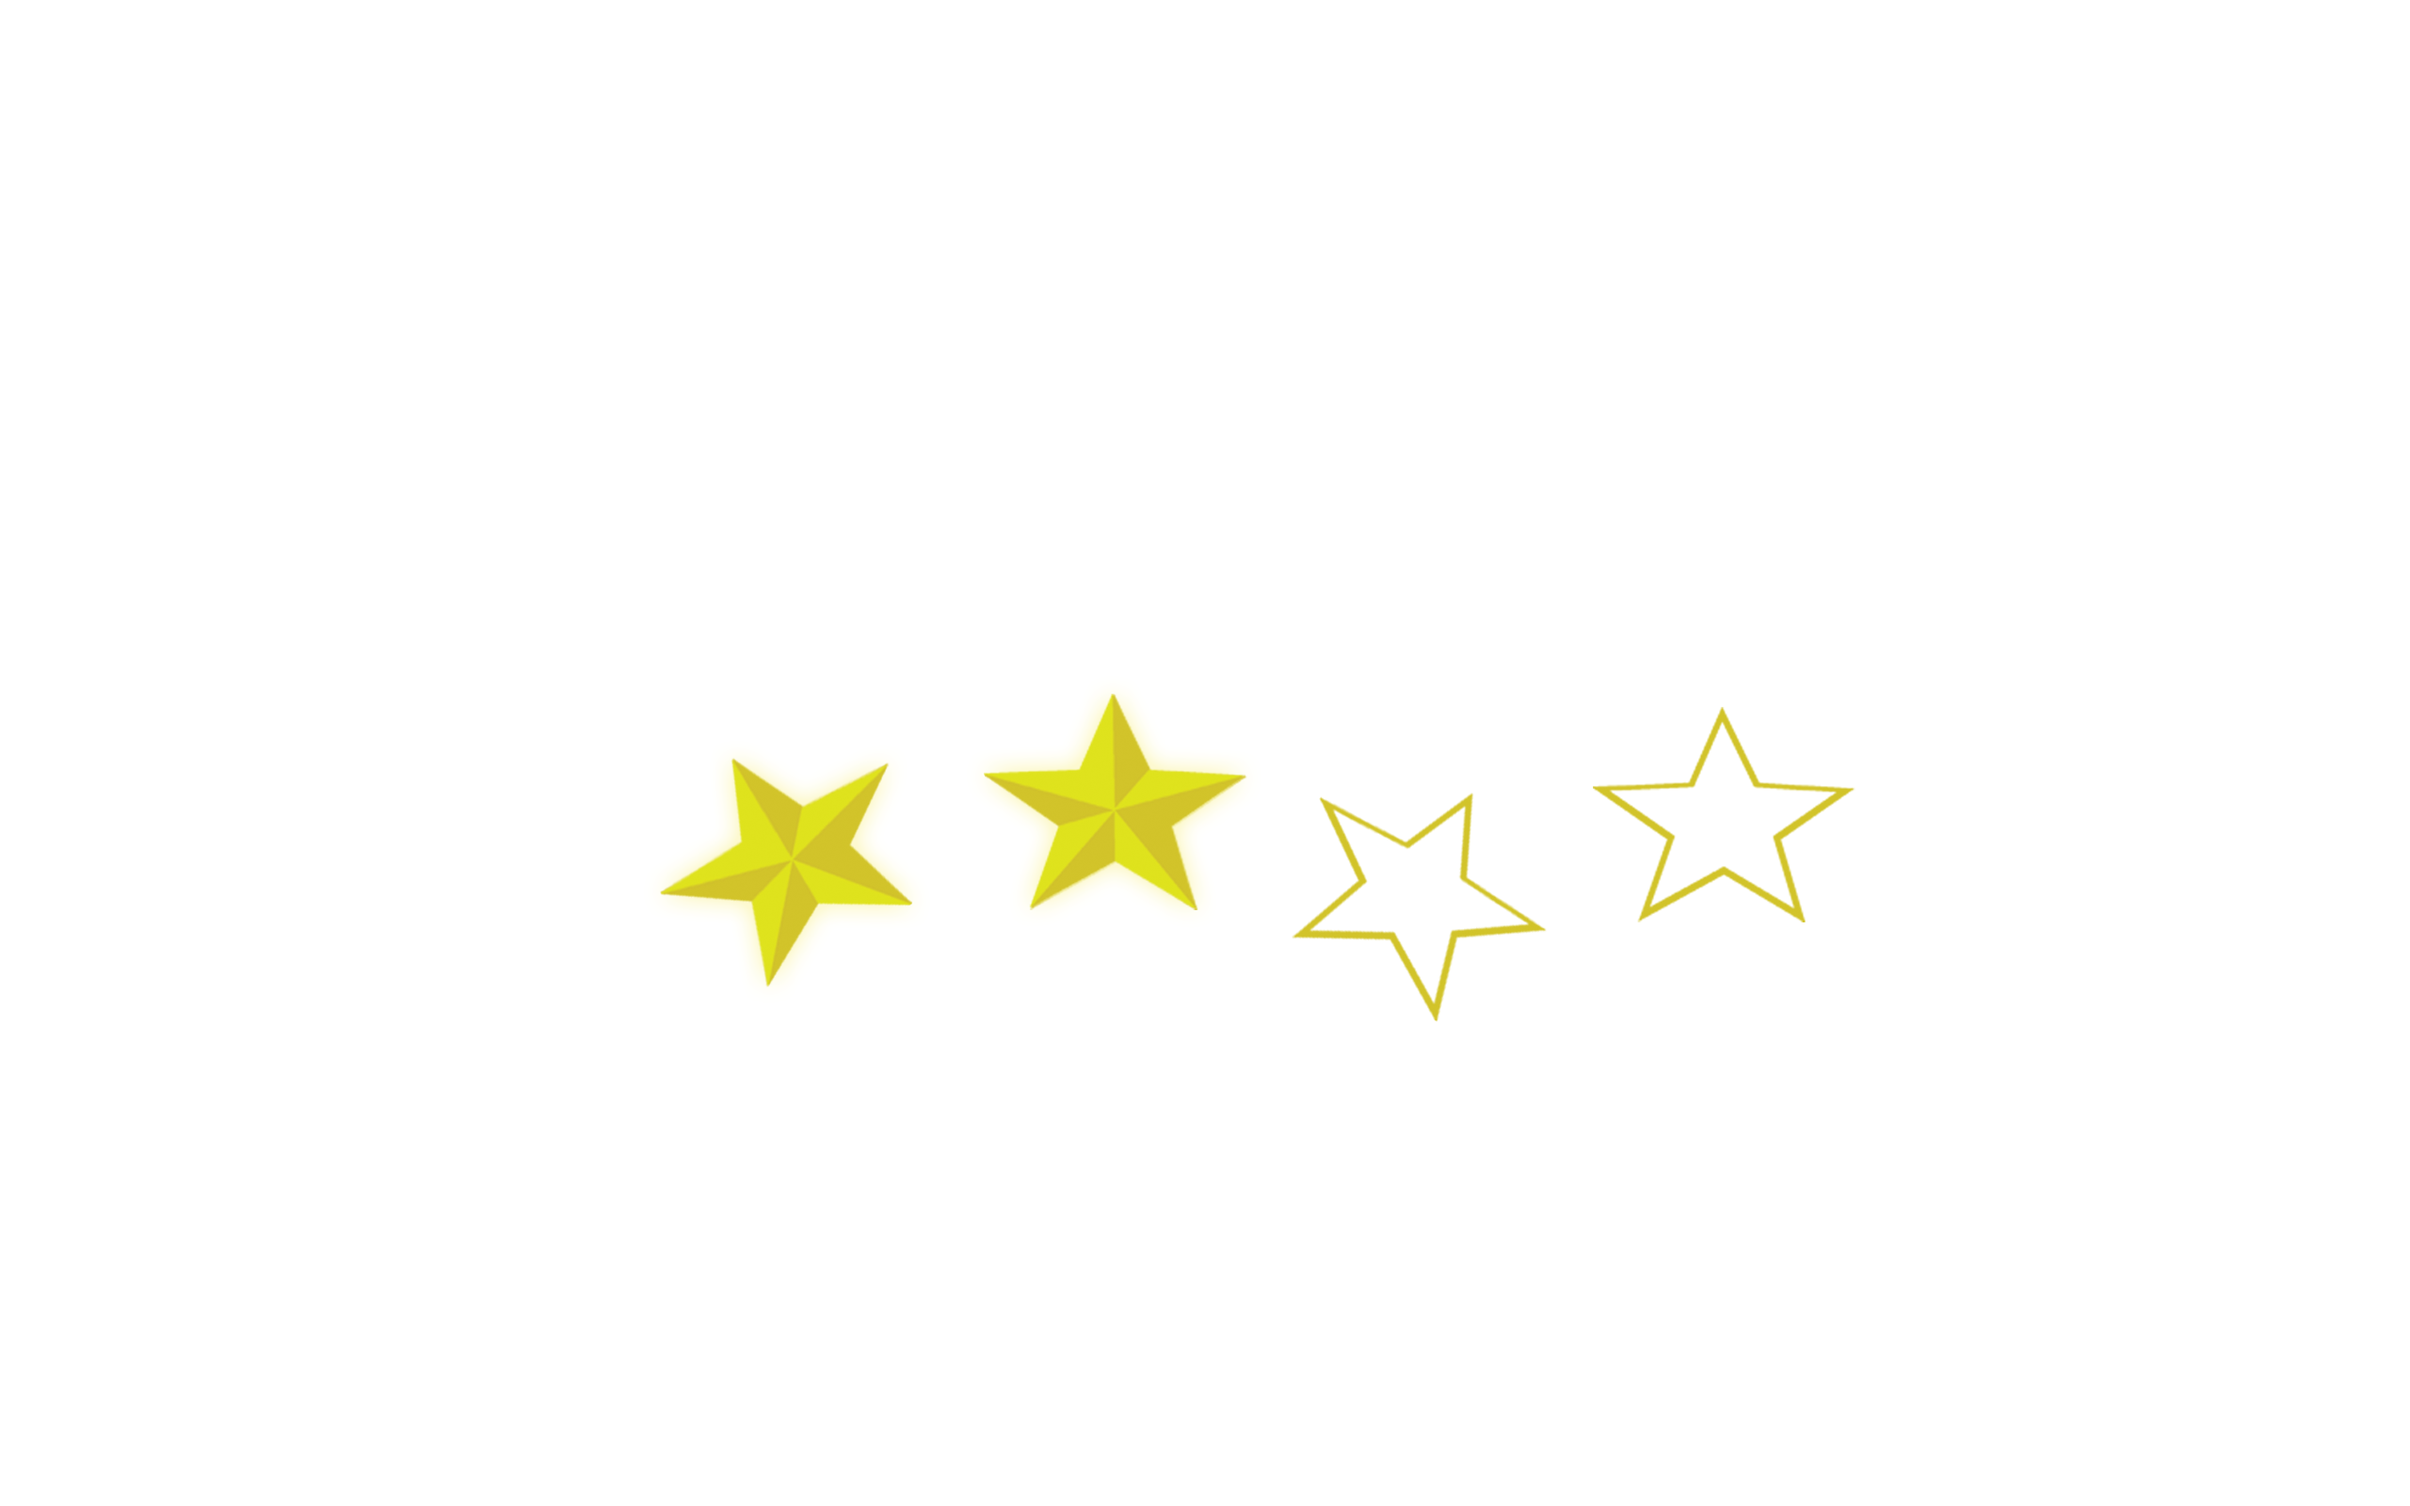
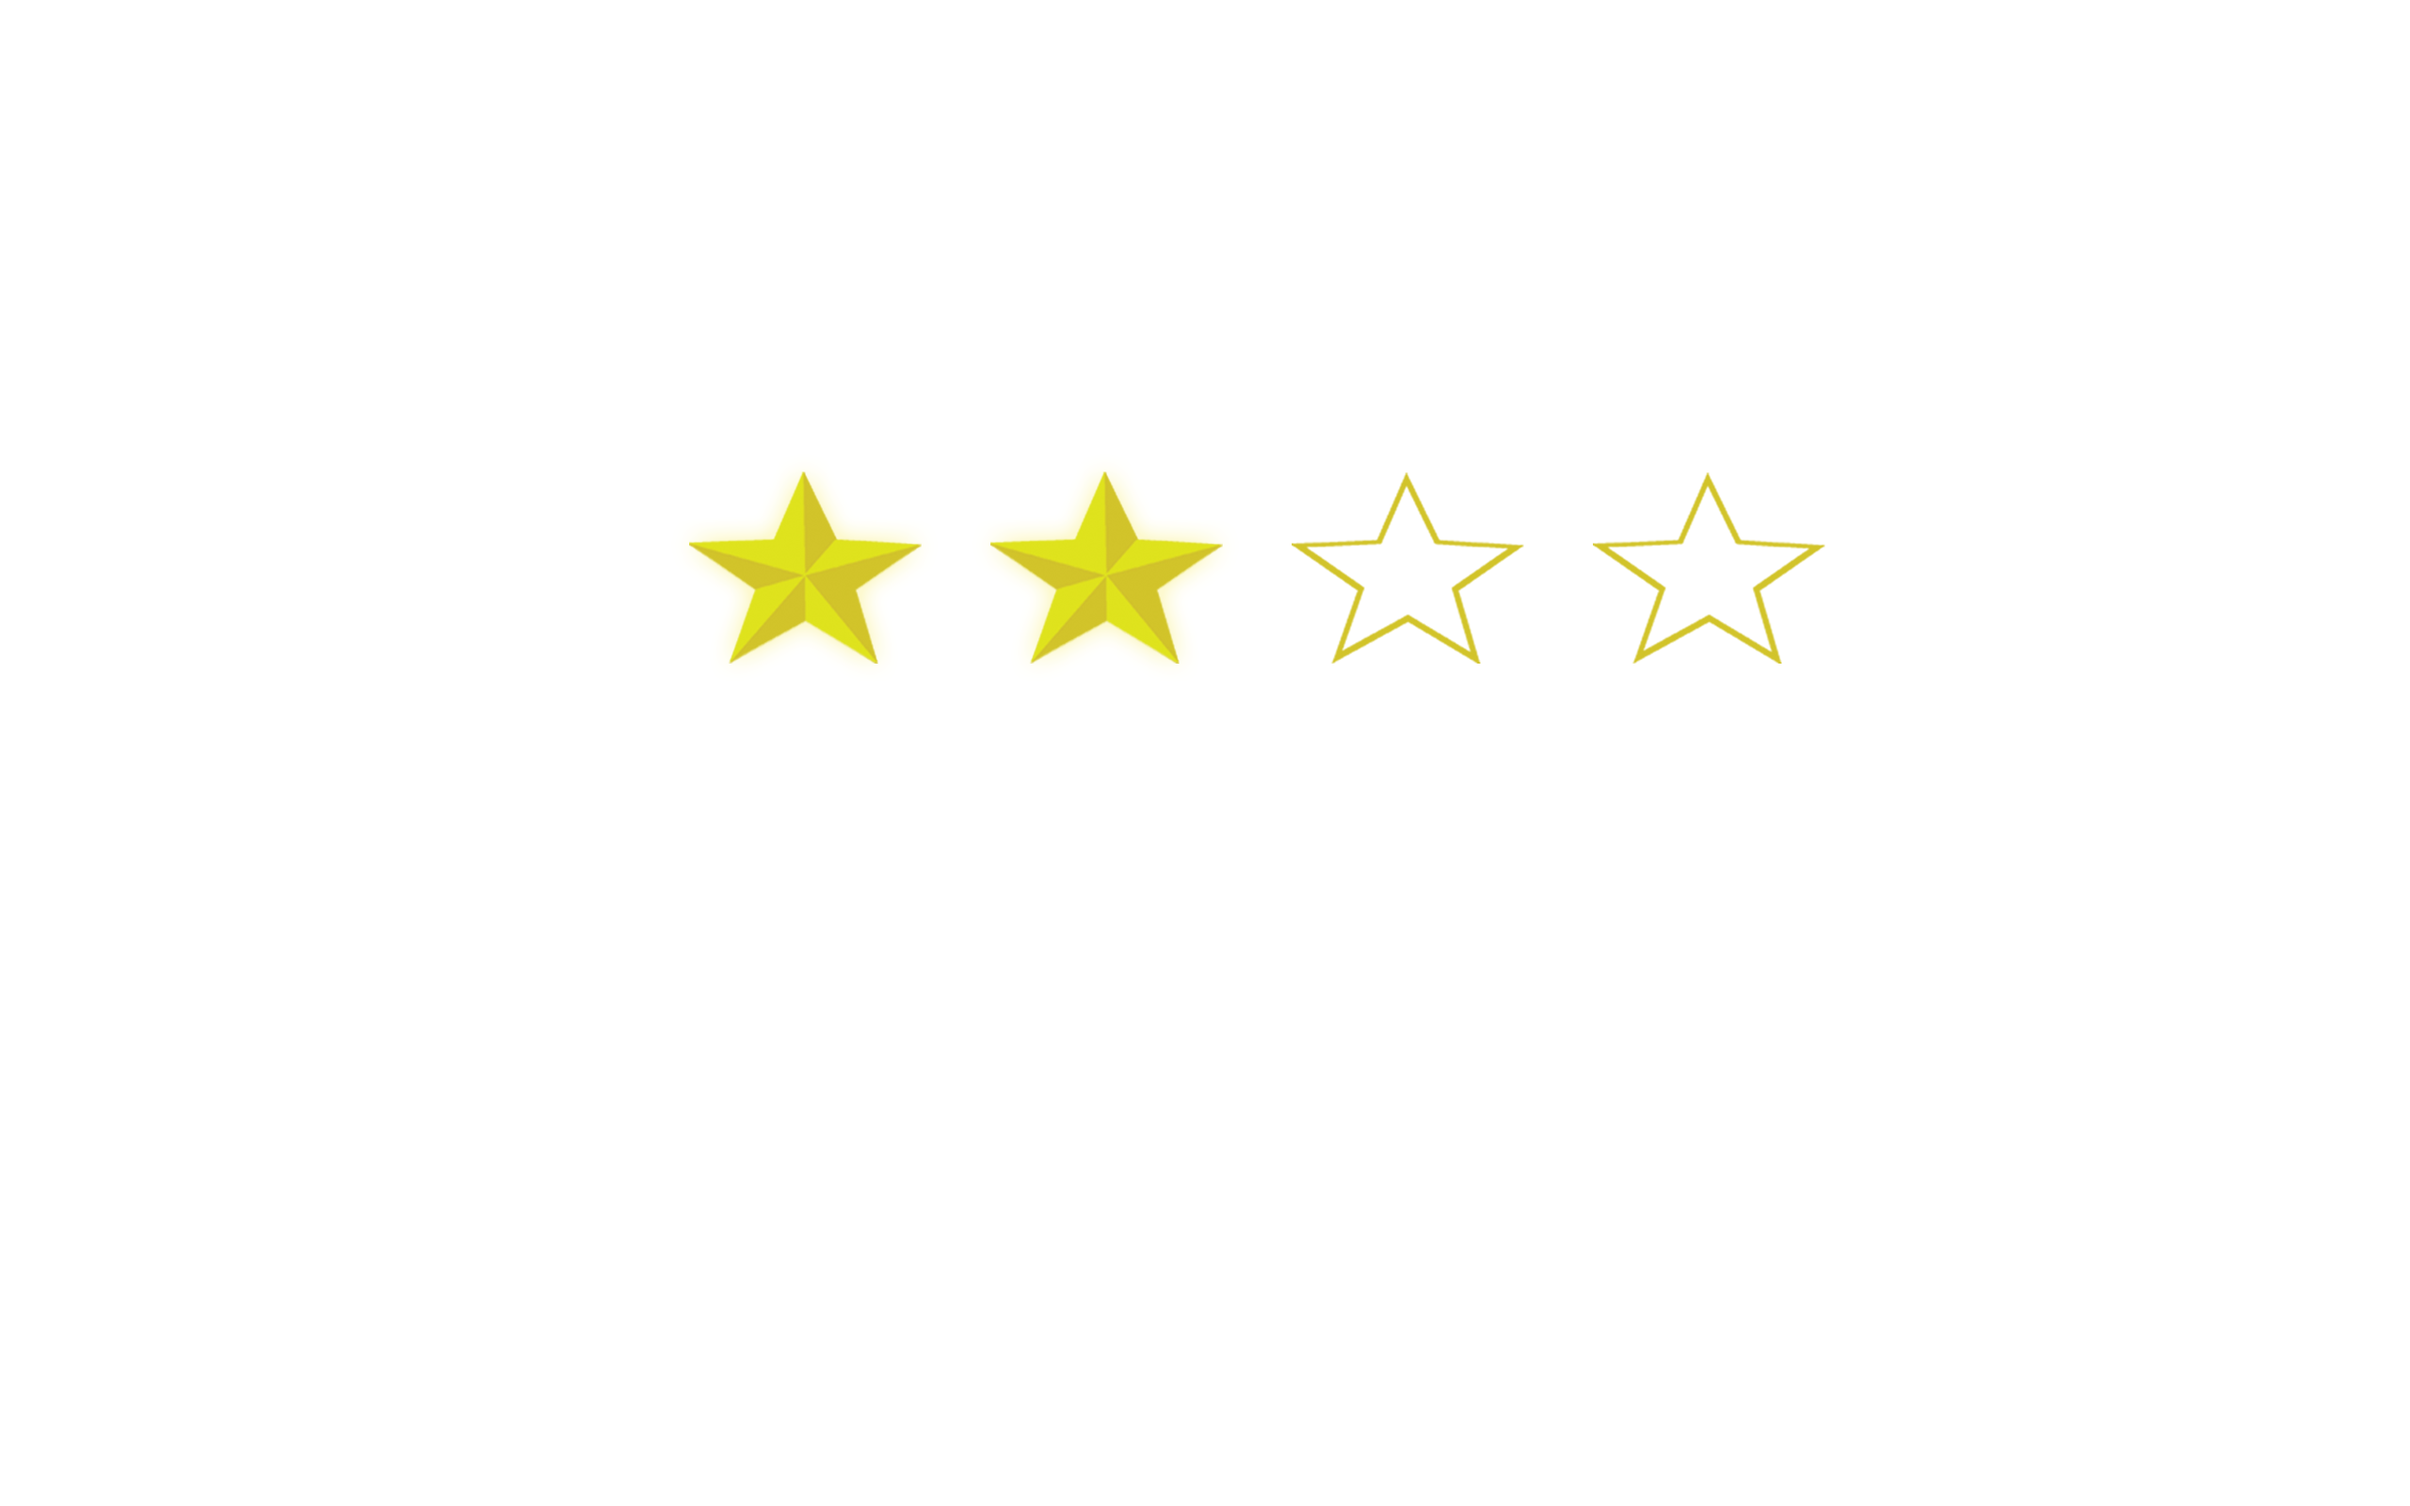
report background image and star images replaced and the button's position and size changed a little.

diff --git a/Classes/GameScene.cpp b/Classes/GameScene.cpp
@@ -1363,7 +1363,7 @@ void GameScene::onShowReportLayer(){
     }
     
     int speedStarCount =0;
-    int accuracyStarCount = 0;
+//    int accuracyStarCount = 0;
 //    if(levelSpeed ==100) speedStarCount = 4;
 //    else if(levelSpeed>75 && levelSpeed<=99) speedStarCount = 3;
 //    else if(levelSpeed >50 && levelSpeed <=75) speedStarCount = 2;
@@ -1434,21 +1434,21 @@ void GameScene::onShowReportLayer(){
             reportTitle = Sprite::create("res/report/Great Job.png");
         else if (speedStarCount == 2)
             reportTitle = Sprite::create("res/report/You Passed.png");
-        reportTitle->setPosition(screenSize.width*0.52, screenSize.width*0.2+screenSize.height*0.33);
-        reportTitle->setScale(screenSize.width*0.45/reportTitle->getContentSize().width);
+        reportTitle->setPosition(screenSize.width*0.52, screenSize.width*0.2+screenSize.height*0.43);
+        reportTitle->setScale(screenSize.width*0.6/reportTitle->getContentSize().width);
         
         reportLayer->addChild(reportTitle);
         
         Button* reportContinueButton = Button::create("res/report/report_continue.png", "res/report/report_continue_selected.png");
-        reportContinueButton->setPosition(Vec2(screenSize.width*0.52, screenSize.height*0.5 - screenSize.width * 0.185f));
+        reportContinueButton->setPosition(Vec2(screenSize.width*0.52, screenSize.height*0.5 - screenSize.width * 0.215f));
         reportContinueButton->addTouchEventListener(CC_CALLBACK_2(GameScene::onKeyTouchEvent, this));
         reportContinueButton->setTag(TAG_GAME_REPORTCONTINUE);
-        reportContinueButton->setScale(this->screenSize.width * 0.1f/reportContinueButton->getContentSize().width);
+        reportContinueButton->setScale(this->screenSize.width * 0.12f/reportContinueButton->getContentSize().width);
         reportLayer->addChild(reportContinueButton);
         
     } else {
         auto reportTitle = Sprite::create("res/report/Keep Trying.png");
-        reportTitle->setPosition(screenSize.width*0.52, screenSize.width*0.2+screenSize.height*0.33);
+        reportTitle->setPosition(screenSize.width*0.52, screenSize.width*0.2+screenSize.height*0.43);
         reportTitle->setScale(screenSize.width*0.6/reportTitle->getContentSize().width);
         
         reportLayer->addChild(reportTitle);
@@ -1458,10 +1458,10 @@ void GameScene::onShowReportLayer(){
         } else {
             reportContinueButton = Button::create("res/report/continue_failure.png", "res/report/continue_failure.png");
         }
-        reportContinueButton->setPosition(Vec2(screenSize.width*0.52, screenSize.height*0.5 - screenSize.width * 0.185f));
+        reportContinueButton->setPosition(Vec2(screenSize.width*0.52, screenSize.height*0.5 - screenSize.width * 0.215f));
         reportContinueButton->addTouchEventListener(CC_CALLBACK_2(GameScene::onKeyTouchEvent, this));
         reportContinueButton->setTag(TAG_GAME_REPORTFAILURE);
-        reportContinueButton->setScale(this->screenSize.width * 0.1f/reportContinueButton->getContentSize().width);
+        reportContinueButton->setScale(this->screenSize.width * 0.12f/reportContinueButton->getContentSize().width);
         reportLayer->addChild(reportContinueButton);
     }
     
@@ -1486,17 +1486,17 @@ void GameScene::onShowReportLayer(){
     
     // report buttons
     Button* reportBackButton = Button::create("res/report/report_back.png", "res/report/report_back_seleted.png");
-    reportBackButton->setPosition(Vec2(screenSize.width*0.34, screenSize.height*0.5 - screenSize.width * 0.185f));
+    reportBackButton->setPosition(Vec2(screenSize.width*0.3, screenSize.height*0.5 - screenSize.width * 0.215f));
     reportBackButton->addTouchEventListener(CC_CALLBACK_2(GameScene::onKeyTouchEvent, this));
     reportBackButton->setTag(TAG_GAME_REPORTBACK);
-    reportBackButton->setScale(this->screenSize.width * 0.1f/reportBackButton->getContentSize().width);
+    reportBackButton->setScale(this->screenSize.width * 0.12f/reportBackButton->getContentSize().width);
     reportLayer->addChild(reportBackButton);
     
     Button* reportExitButton = Button::create("res/report/report_exit.png", "res/report/report_exit_selected.png");
-    reportExitButton->setPosition(Vec2(screenSize.width*0.7, screenSize.height*0.5 - screenSize.width * 0.185f));
+    reportExitButton->setPosition(Vec2(screenSize.width*0.74, screenSize.height*0.5 - screenSize.width * 0.215f));
     reportExitButton->addTouchEventListener(CC_CALLBACK_2(GameScene::onKeyTouchEvent, this));
     reportExitButton->setTag(TAG_GAME_REPORTEXIT);
-    reportExitButton->setScale(this->screenSize.width * 0.1f/reportExitButton->getContentSize().width);
+    reportExitButton->setScale(this->screenSize.width * 0.12f/reportExitButton->getContentSize().width);
     reportLayer->addChild(reportExitButton);
 
     auto action_0 = MoveTo::create(0.4, Point(0 , screenSize.height*0.3));
@@ -1531,7 +1531,8 @@ void GameScene::getLevelInfo(){
     data = FileUtils::getInstance()->getValueMapFromFile(path);
     arrLevels = data.at("levels").asValueVector();
     ValueMap sdata = (arrLevels[level-1]).asValueMap();
-    targetnumber =  sdata["targetnumber"].asInt();
+//    targetnumber =  sdata["targetnumber"].asInt();
+    targetnumber = 5;
     targettime =  sdata["time2"].asInt();
     targettime1 =  sdata["time1"].asInt();
     targettime2 =  sdata["time3"].asInt();
